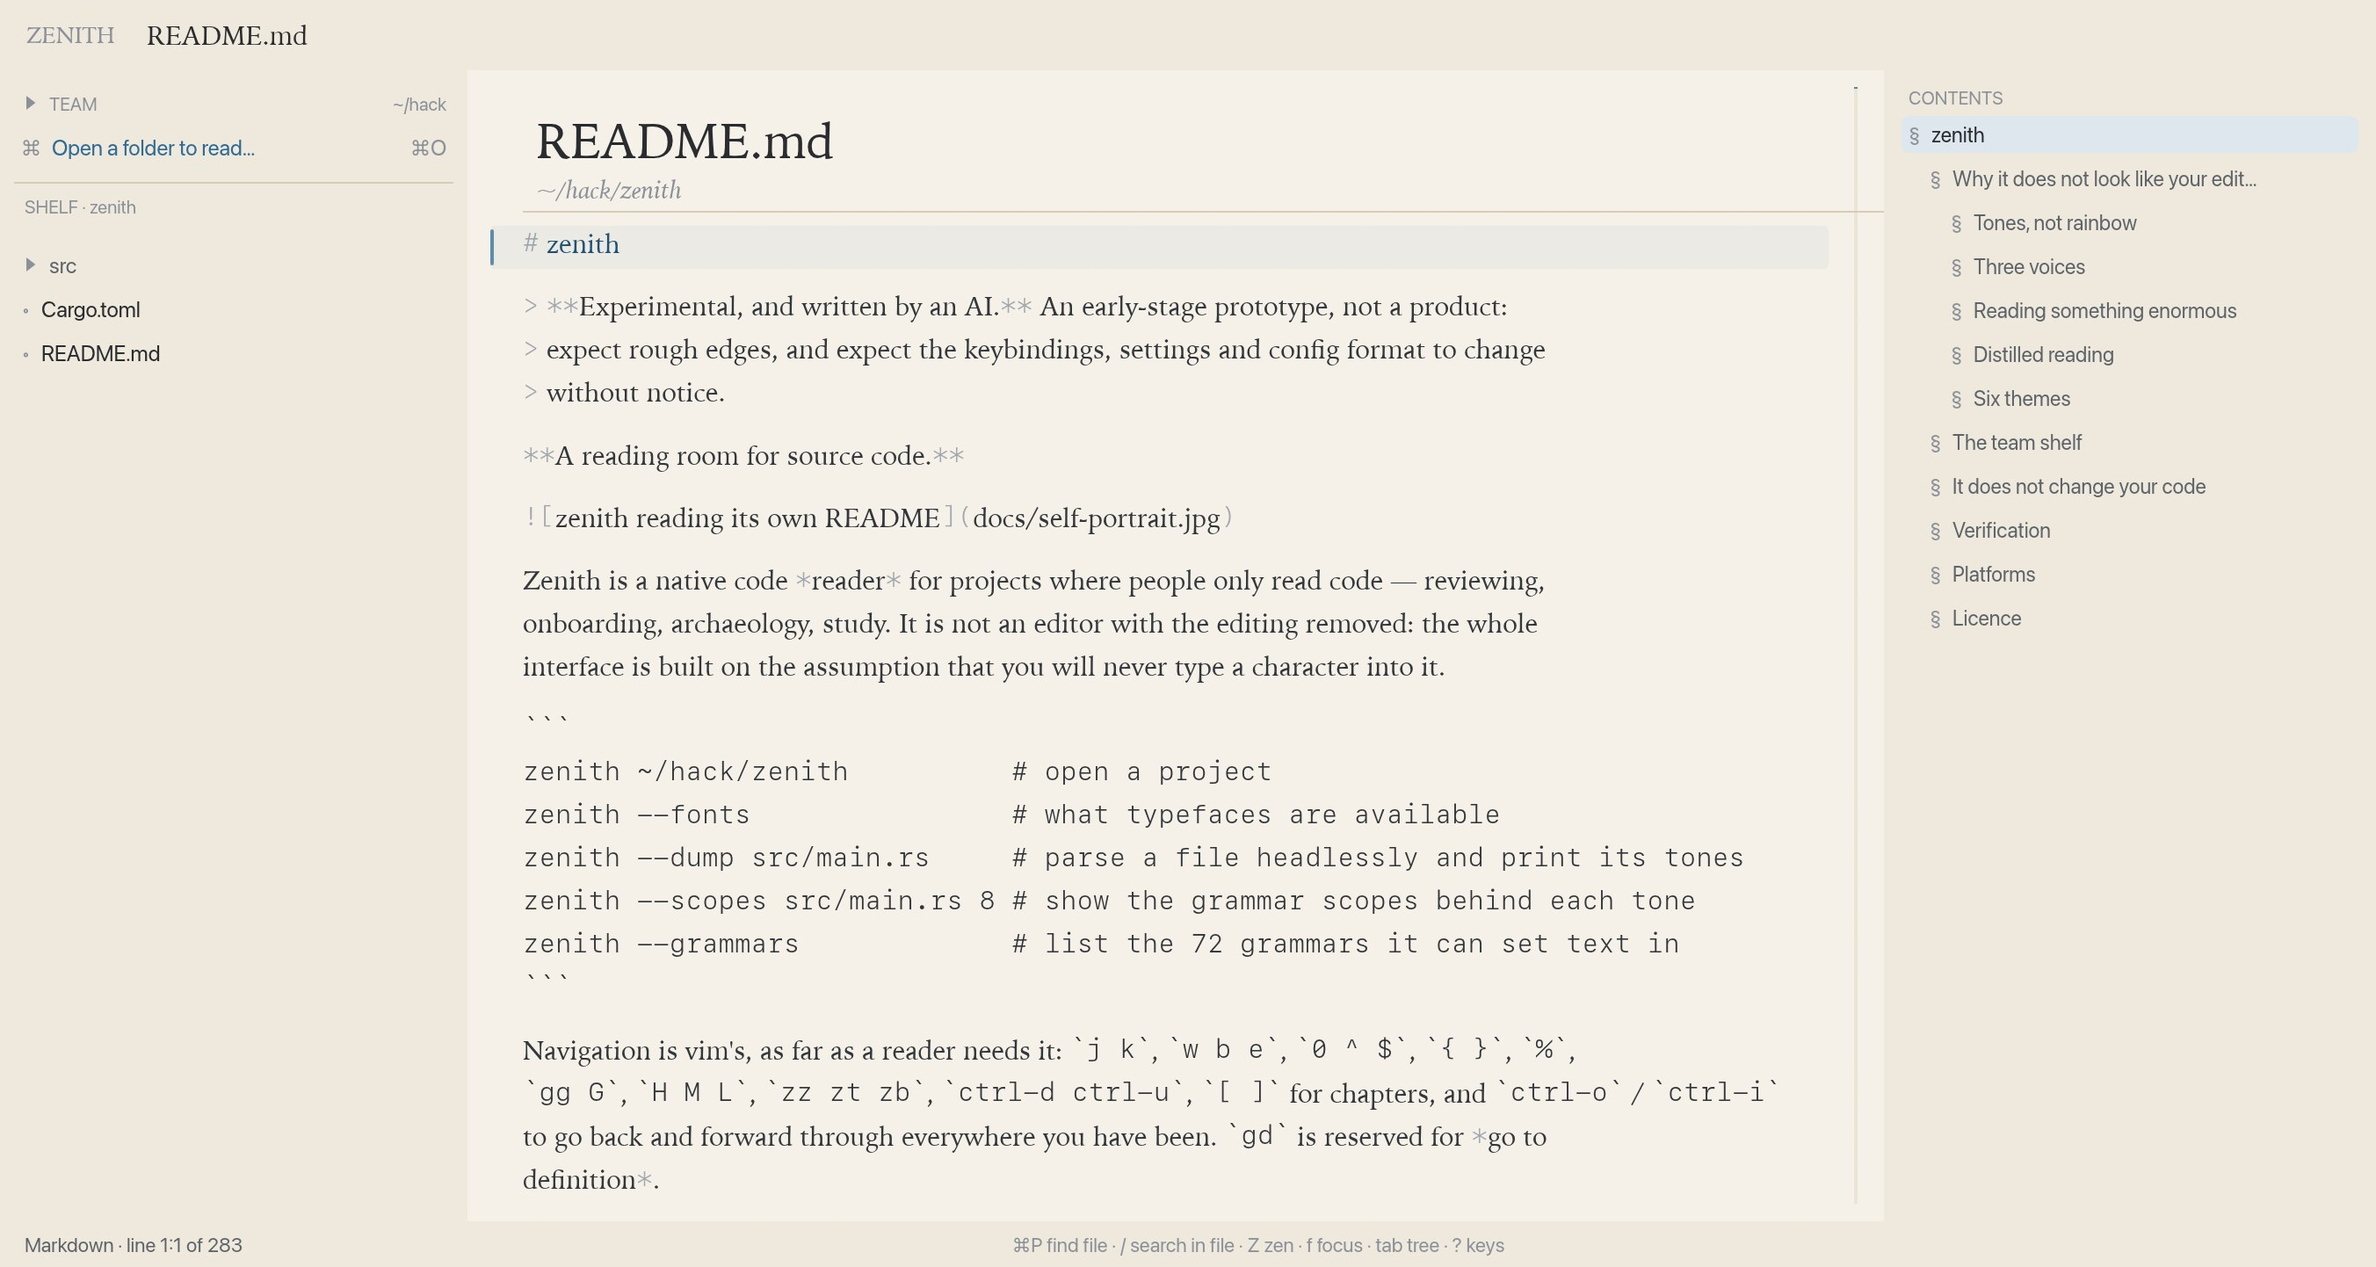
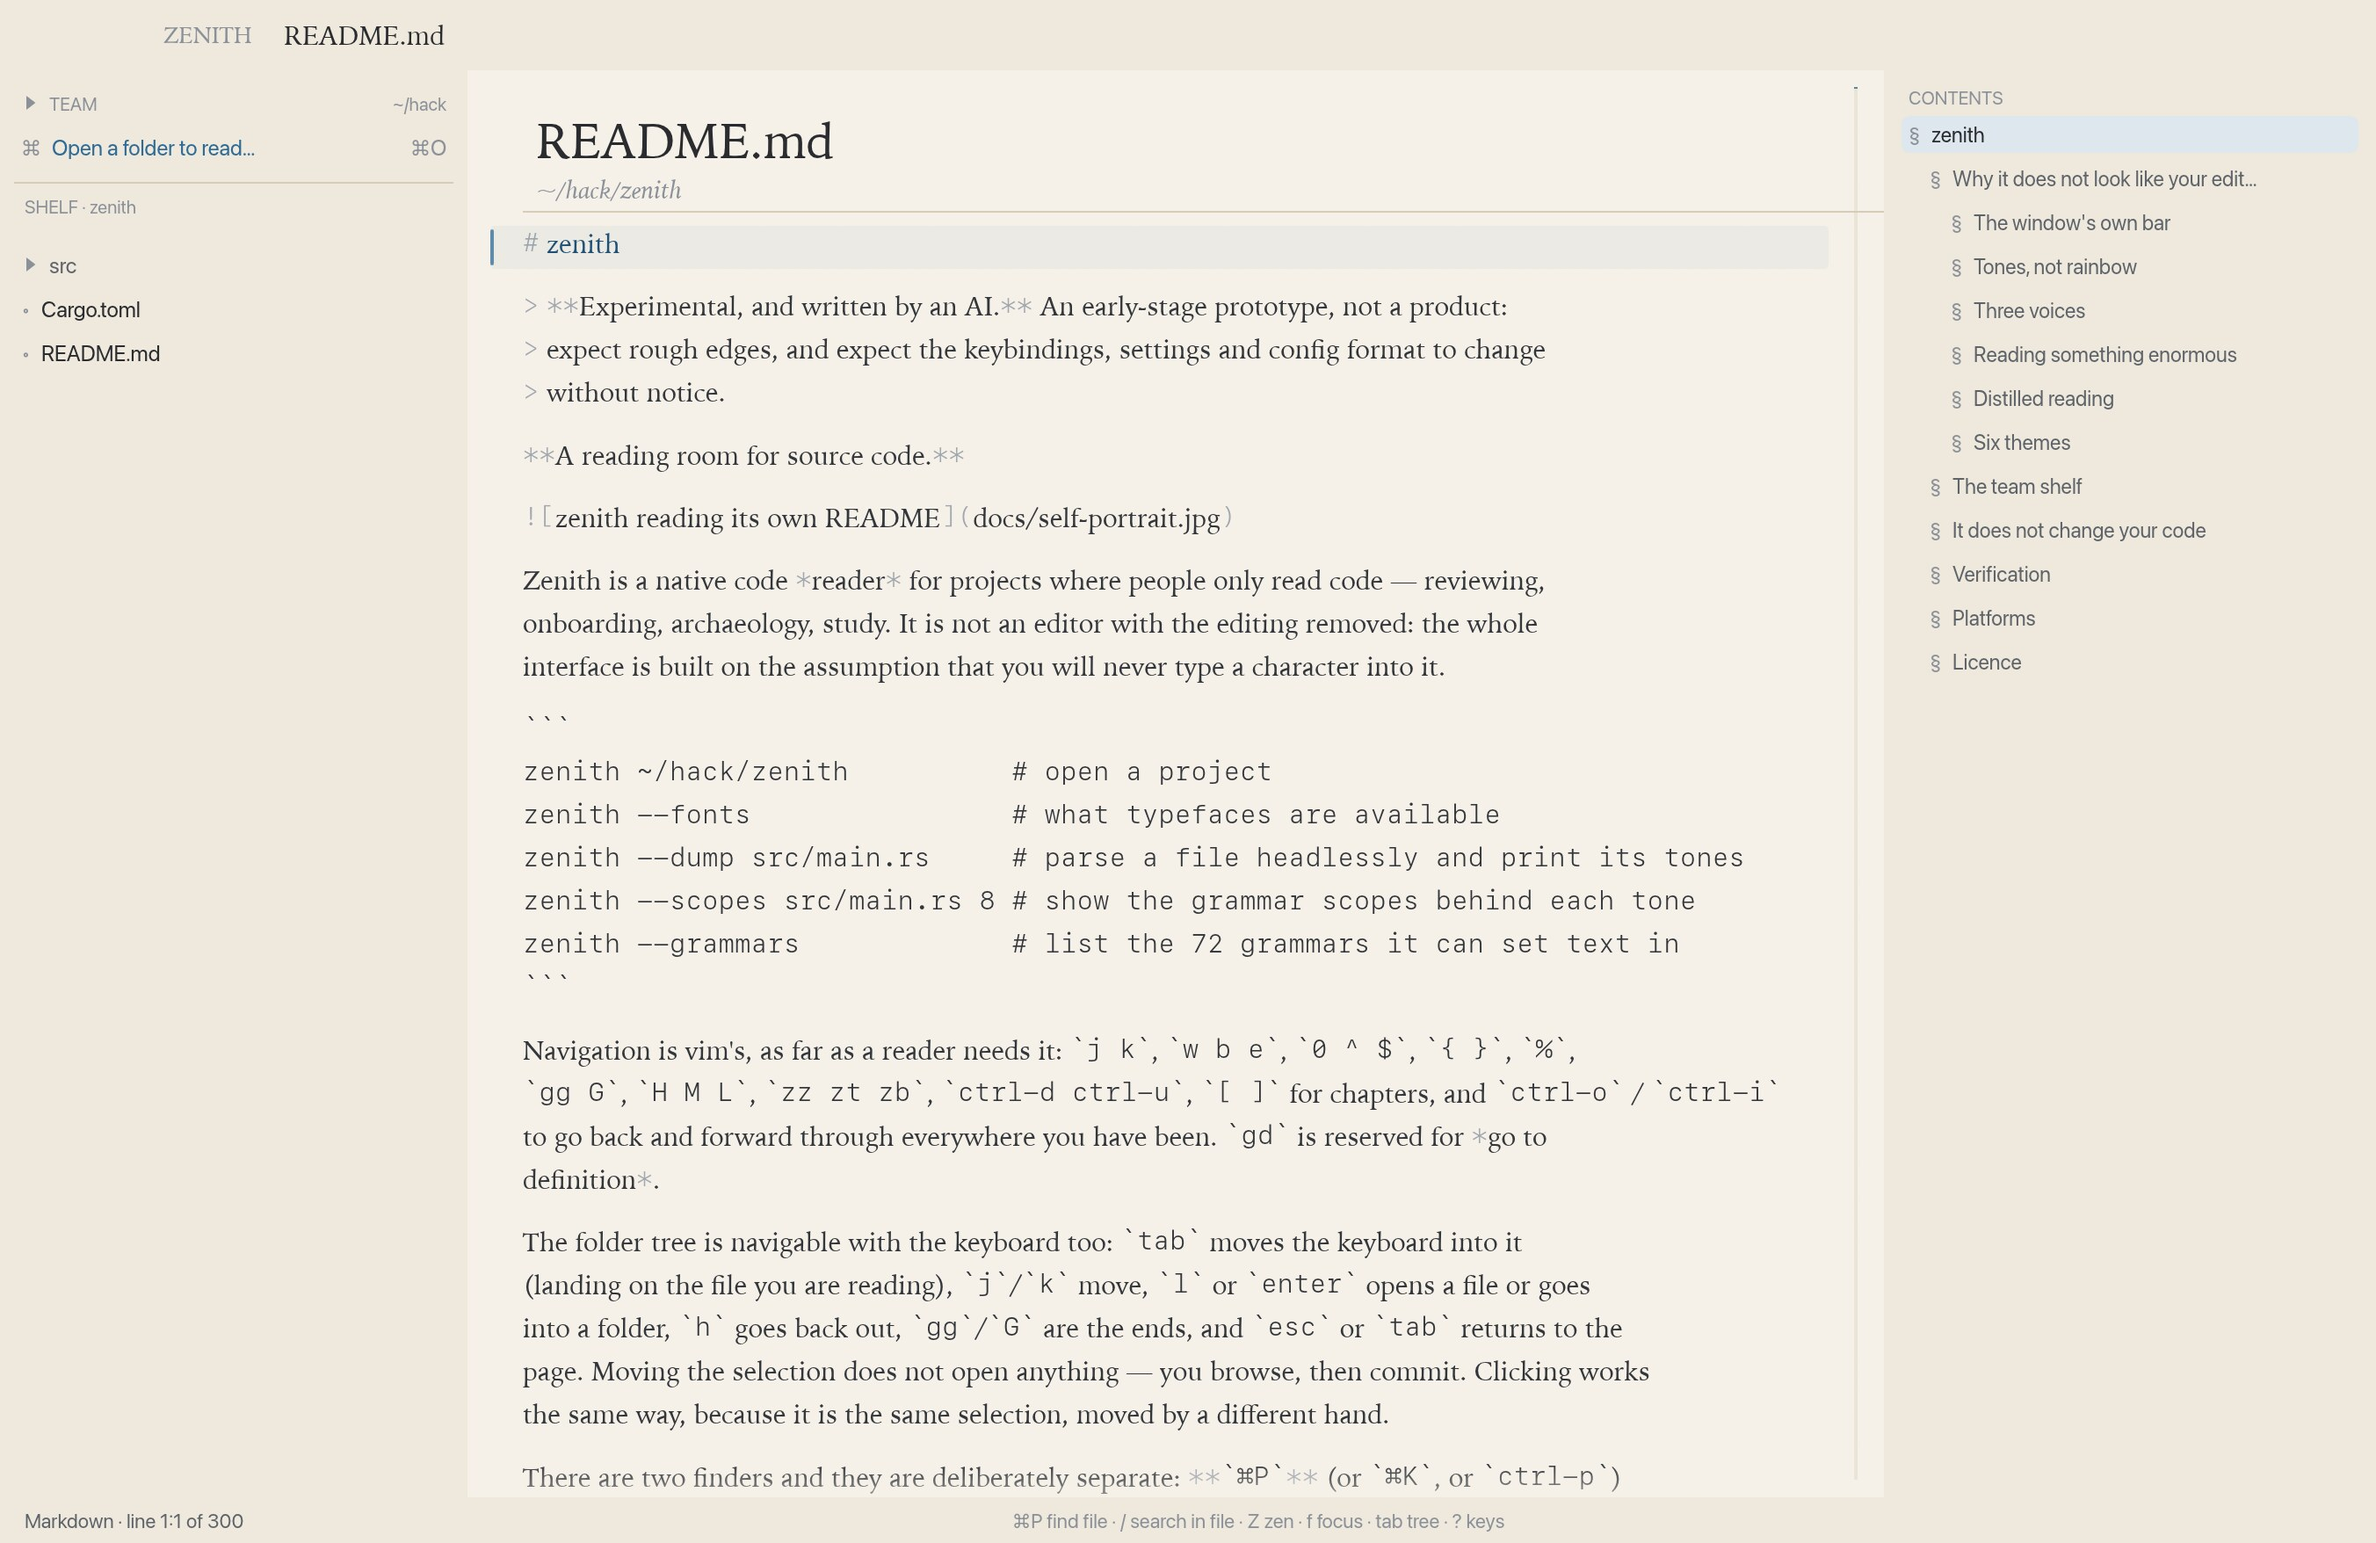
Give the window the theme's own bar
The strip along the top of a window belongs to the desktop: on macOS it is the
system's material, on Linux whatever the window manager decides. Neither is the
page's colour, so the window never looked like one thing on either platform.

The window is now created without system decorations and the theme's bar takes
their place. It drags to move, double-clicks to maximise, and on macOS the
traffic lights stay where they are, over the bar, with the app's name moved
along to leave them room — the title bar is hidden and the content fills the
window, which is how a themed toolbar is done there. Elsewhere the buttons are
drawn too, and the edges become eight thin zones that ask the compositor to
resize, because a window with no frame has no edges of its own.

The palette now also tells the system whether it is light or dark, at startup
and on every theme change, so the chrome the system still draws agrees with the
page.

It is a setting — "themed window bar" on the settings page, `frameless` in the
config — and turning it off hands the frame straight back to the desktop while
running, which is the escape hatch if a window manager disagrees about dragging
or resizing. It is on by default, because a themed window is the point.

Verified by rendering the bar and by a live run without panics. The native
frame itself is not something an in-app screenshot can show: whether the traffic
lights sit correctly and whether a Linux compositor honours the drag and resize
[…]

diff --git a/src/app.rs b/src/app.rs
@@ -38,6 +38,9 @@ pub fn run(
         measure: measure_override,
         scale: scale_override,
         distilled,
+        // The window asks for its own frame; the config can say otherwise, and the
+        // settings panel can change it while running.
+        frameless: true,
         smoke: None,
     });
 }
@@ -55,6 +58,7 @@ pub fn run_smoke(
         measure: measure_override,
         scale: scale_override,
         distilled: None,
+        frameless: true,
         smoke: Some(Smoke {
             out,
             frame: 0,
@@ -79,12 +83,27 @@ fn launch(opts: Startup) {
         Some(p) => format!("zenith — {}", p.file_name().unwrap_or_default().to_string_lossy()),
         None => "zenith".to_string(),
     };
+    // The strip along the top of a window belongs to the desktop, not to the app: on macOS
+    // it is the system's grey, on Linux whatever the window manager decides. Zenith can
+    // draw its own, in the theme, so that the whole window is the page's colour on both.
+    let mut viewport = egui::ViewportBuilder::default()
+        .with_title(title)
+        .with_app_id("zenith")
+        .with_inner_size([1440.0, 920.0])
+        .with_min_inner_size([720.0, 480.0]);
+    if opts.frameless {
+        viewport = viewport.with_decorations(false);
+        // macOS keeps its traffic lights when the title bar is hidden but the content
+        // fills the window, which is how a themed toolbar is done there.
+        #[cfg(target_os = "macos")]
+        {
+            viewport = viewport
+                .with_titlebar_shown(false)
+                .with_fullsize_content_view(true);
+        }
+    }
     let options = eframe::NativeOptions {
-        viewport: egui::ViewportBuilder::default()
-            .with_title(title)
-            .with_app_id("zenith")
-            .with_inner_size([1440.0, 920.0])
-            .with_min_inner_size([720.0, 480.0]),
+        viewport,
         ..Default::default()
     };
     let t_run = std::time::Instant::now();
@@ -139,6 +158,7 @@ struct Startup {
     measure: Option<usize>,
     scale: Option<f32>,
     distilled: Option<bool>,
+    frameless: bool,
     smoke: Option<Smoke>,
 }
 
@@ -269,6 +289,12 @@ impl Zenith {
         let typo = typography::build(0, 0, 0);
         cc.egui_ctx.set_fonts(typo.defs.clone());
         apply_style(&cc.egui_ctx, &palette, &typo, config.font_scale);
+        cc.egui_ctx
+            .send_viewport_cmd(egui::ViewportCommand::SetTheme(if palette.is_dark() {
+                egui::SystemTheme::Dark
+            } else {
+                egui::SystemTheme::Light
+            }));
 
         // Built once here rather than inside the literal below, so its cost is visible.
         let hl = Highlighter::new();
@@ -1337,11 +1363,18 @@ impl Zenith {
         self.store.save_config();
     }
 
-    fn set_theme(&mut self, idx: usize) {
+    fn set_theme(&mut self, ctx: &egui::Context, idx: usize) {
         if let Some(p) = theme::THEMES.get(idx) {
             self.palette = *p;
             self.store.config.theme = p.name.to_string();
             self.store.save_config();
+            // Whatever the system still draws — menus, the title bar if it is visible, a
+            // window manager's own preferences — should agree with the page.
+            ctx.send_viewport_cmd(egui::ViewportCommand::SetTheme(if p.is_dark() {
+                egui::SystemTheme::Dark
+            } else {
+                egui::SystemTheme::Light
+            }));
         }
     }
 
@@ -1617,6 +1650,12 @@ impl eframe::App for Zenith {
         if self.show_settings {
             self.settings_overlay(&ctx);
         }
+
+        // A window without a frame has no edges of its own; these are ours. Last, so they
+        // sit on top of the content they border.
+        if self.store.config.frameless && !cfg!(target_os = "macos") {
+            resize_handles(ui);
+        }
         if zen {
             self.zen_hint(&ctx);
         }
@@ -1636,6 +1675,14 @@ impl Zenith {
         let pal = self.palette;
         let font = self.typo.ui_id(12.5 * self.scale);
         let strong = self.typo.prose_id(15.0 * self.scale);
+        let ctx = ui.ctx().clone();
+        // On macOS the traffic lights stay where they are, over our bar: leave them room
+        // rather than drawing the app's name underneath them.
+        let gutter = if cfg!(target_os = "macos") && self.store.config.frameless {
+            78.0
+        } else {
+            0.0
+        };
         let crumbs: Vec<String> = self
             .open
             .as_ref()
@@ -1651,10 +1698,31 @@ impl Zenith {
                     .inner_margin(Margin::symmetric(14, 6)),
             )
             .show(ui, |ui| {
+                // The whole bar moves the window, the way a title bar does. Dragging is
+                // started by the backend, so it must be asked for on the frame the drag
+                // begins, not after it.
+                let bar = ui.max_rect();
+                let drag = ui.interact(
+                    bar,
+                    ui.id().with("titlebar"),
+                    Sense::click_and_drag(),
+                );
+                if self.store.config.frameless {
+                    if drag.drag_started() {
+                        ctx.send_viewport_cmd(egui::ViewportCommand::StartDrag);
+                    }
+                    if drag.double_clicked() {
+                        let maximised = ctx.input(|i| i.viewport().maximized.unwrap_or(false));
+                        ctx.send_viewport_cmd(egui::ViewportCommand::Maximized(!maximised));
+                    }
+                }
+                if self.store.config.frameless && !cfg!(target_os = "macos") {
+                    window_buttons(ui, &pal, &ctx, bar);
+                }
                 let y = ui.max_rect().center().y;
                 let painter = ui.painter();
                 let mark = painter.text(
-                    Pos2::new(ui.max_rect().left() + 1.0, y),
+                    Pos2::new(ui.max_rect().left() + 1.0 + gutter, y),
                     Align2::LEFT_CENTER,
                     "ZENITH",
                     self.typo.prose_id(13.0 * self.scale),
@@ -2790,6 +2858,7 @@ impl Zenith {
                                         ("compress blank lines", &mut cfg.compress_blank),
                                         ("line numbers", &mut cfg.line_numbers),
                                         ("distilled types", &mut cfg.distilled),
+                                        ("themed window bar", &mut cfg.frameless),
                                     ]);
                                 });
                             });
@@ -2951,12 +3020,16 @@ impl Zenith {
             self.apply_typography(ctx, new_mono, new_prose);
         }
         if let Some(i) = theme_choice {
-            self.set_theme(i);
+            self.set_theme(ctx, i);
         }
         if changed {
             self.store.config.font_scale = self.scale;
             self.store.save_config();
             self.rebuild_metrics(ctx);
+            // The frame can be handed back to the desktop, or taken away, while running.
+            ctx.send_viewport_cmd(egui::ViewportCommand::Decorations(
+                !self.store.config.frameless,
+            ));
         }
         if open_folder {
             self.pick_folder();
@@ -3256,6 +3329,65 @@ fn toggles(
 /// How many lines does this text have? Cheap enough to ask once when opening.
 fn count_lines(text: &str) -> usize {
     text.lines().count()
+}
+
+
+/// Minimise, maximise, close — drawn by us, because on Linux and Windows a window without
+/// a system frame has no buttons at all.
+fn window_buttons(ui: &mut Ui, pal: &Palette, ctx: &egui::Context, bar: Rect) {
+    let size = 12.0;
+    let gap = 10.0;
+    let mut x = bar.right() - 16.0;
+    let y = bar.center().y;
+    let mut button = |glyph: &str, colour: Color32, action: egui::ViewportCommand| {
+        let rect = Rect::from_center_size(Pos2::new(x, y), vec2(size + gap, size + gap));
+        let resp = ui.interact(rect, ui.id().with(glyph), Sense::click());
+        let ink = if resp.hovered() { pal.ink } else { colour };
+        let painter = ui.painter().with_clip_rect(rect);
+        painter.text(
+            rect.center(),
+            Align2::CENTER_CENTER,
+            glyph,
+            FontId::proportional(11.0),
+            ink,
+        );
+        if resp.clicked() {
+            ctx.send_viewport_cmd(action);
+        }
+        x -= size + gap;
+    };
+    button("✕", pal.ink_soft, egui::ViewportCommand::Close);
+    button("＋", pal.ink_soft, egui::ViewportCommand::Maximized(true));
+    button("—", pal.ink_soft, egui::ViewportCommand::Minimized(true));
+}
+
+/// The window's edges, for a window with no system frame: eight thin zones that ask the
+/// backend to begin a resize when one of them is dragged.
+///
+/// Drawn last, on top of everything, so a press near the edge resizes the window rather
+/// than clicking whatever happened to be underneath.
+fn resize_handles(ui: &mut Ui) {
+    use egui::viewport::ResizeDirection as Dir;
+    let edge = 6.0;
+    let r = ui.ctx().content_rect();
+    let zones: [(Dir, Rect); 8] = [
+        (Dir::North, Rect::from_min_max(r.left_top(), Pos2::new(r.right(), r.top() + edge))),
+        (Dir::South, Rect::from_min_max(Pos2::new(r.left(), r.bottom() - edge), r.right_bottom())),
+        (Dir::West, Rect::from_min_max(r.left_top(), Pos2::new(r.left() + edge, r.bottom()))),
+        (Dir::East, Rect::from_min_max(Pos2::new(r.right() - edge, r.top()), r.right_bottom())),
+        (Dir::NorthWest, Rect::from_min_max(r.left_top(), Pos2::new(r.left() + edge, r.top() + edge))),
+        (Dir::NorthEast, Rect::from_min_max(Pos2::new(r.right() - edge, r.top()), Pos2::new(r.right(), r.top() + edge))),
+        (Dir::SouthWest, Rect::from_min_max(Pos2::new(r.left(), r.bottom() - edge), Pos2::new(r.left() + edge, r.bottom()))),
+        (Dir::SouthEast, Rect::from_min_max(Pos2::new(r.right() - edge, r.bottom() - edge), r.right_bottom())),
+    ];
+    for (dir, rect) in zones {
+        let id = egui::Id::new(("zenith-resize", dir as u8));
+        let resp = ui.interact(rect, id, Sense::click_and_drag());
+        if resp.drag_started() {
+            ui.ctx()
+                .send_viewport_cmd(egui::ViewportCommand::BeginResize(dir));
+        }
+    }
 }
 
 /// A disclosure triangle, drawn rather than typed.

diff --git a/src/catalog.rs b/src/catalog.rs
@@ -48,6 +48,9 @@ pub struct Config {
     pub distilled: bool,
     /// Chrome-free reading.
     pub zen: bool,
+    /// Draw the window's own bar instead of the system's, so the strip along the top of
+    /// the window is the theme's colour rather than the desktop's.
+    pub frameless: bool,
     /// Extra hand-named shelves.
     pub shelves: Vec<ShelfCfg>,
 }
@@ -76,6 +79,7 @@ impl Default for Config {
             focus_lens: false,
             distilled: false,
             zen: false,
+            frameless: true,
             shelves: Vec::new(),
         }
     }

diff --git a/README.md b/README.md
@@ -70,6 +70,23 @@ change in the text, so the fade literally looks like the page coming forward —
 layout cache survives unbroken. Only the visible lines are laid out per frame, so the cost
 of a frame does not grow with the size of the file.
 
+### The window's own bar
+
+The strip along the top of a window belongs to the desktop, not to the app: on macOS it is
+the system's material, on Linux whatever the window manager decides. Neither is `#f4f1ea`
+when the page is, so the window never quite looks like one thing.
+
+So zenith draws its own. The window is created without system decorations and the theme's
+bar takes their place: drag it to move the window, double-click to maximise, and on macOS
+the traffic lights stay exactly where they were, over the bar, with the app's name moved
+along to make room. On Linux and Windows the buttons are drawn too, and the window's edges
+are eight thin zones that ask the compositor to resize. The palette also tells the system
+whether it is light or dark, so menus and any chrome that remains agree with the page.
+
+It is a setting (`settings › page › themed window bar`, or `frameless` in the config), and
+turning it off hands the frame straight back to the desktop without a restart — which is
+the escape hatch if a window manager disagrees about dragging or resizing.
+
 ### Tones, not rainbow
 
 Every editor colour scheme is a rainbow: six or seven hues at full saturation, competing
